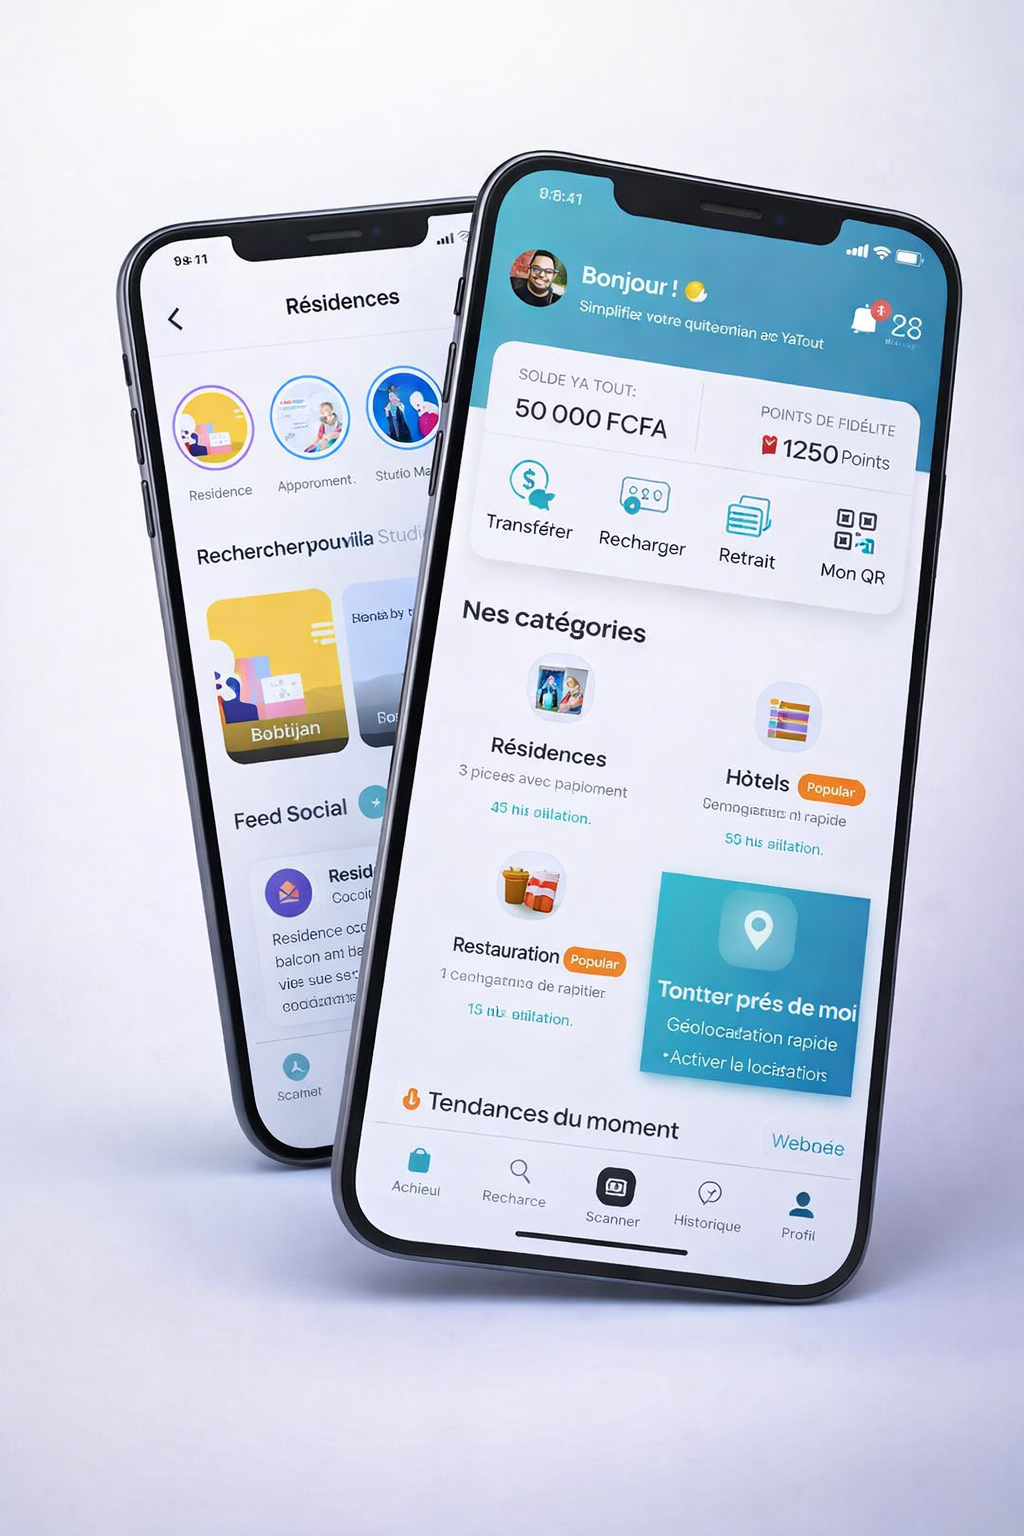
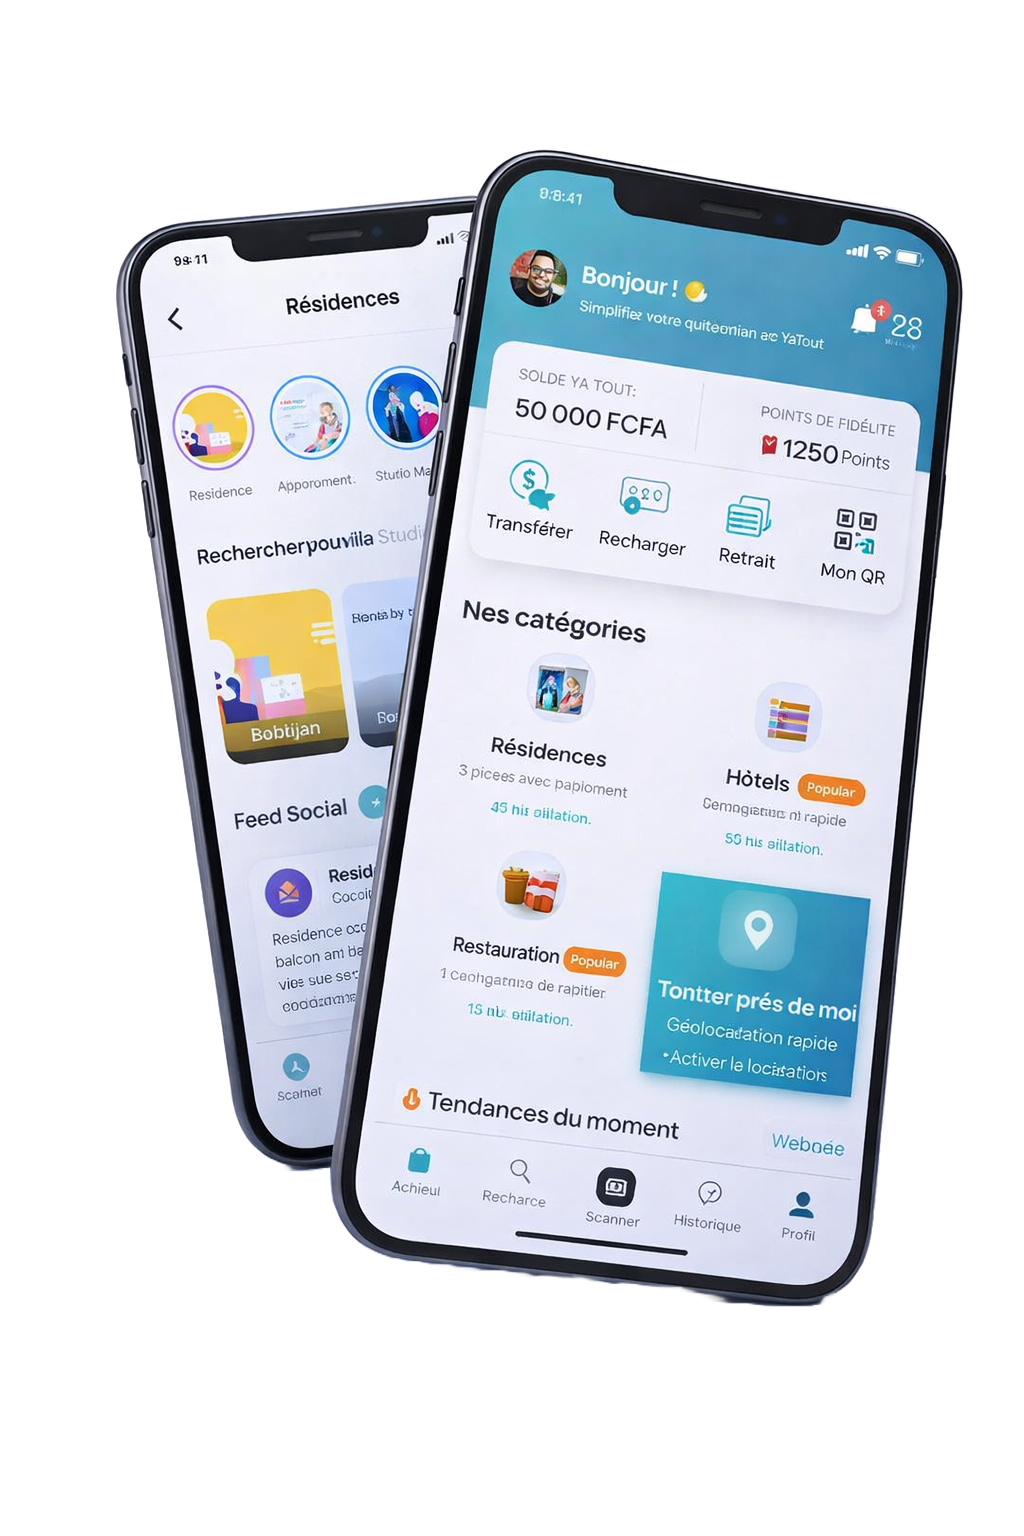
feat: Implement image-based phone mockup in Hero section, update button styles, and refine layout.

diff --git a/components/Hero.tsx b/components/Hero.tsx
@@ -29,7 +29,7 @@ const benefits = [
 
 export default function Hero() {
   return (
-    <section className="relative min-h-[90vh] flex items-center pt-20 overflow-hidden bg-gradient-to-br from-white to-gray-50">
+    <section className="relative min-h-[90vh] flex items-center pt-20 overflow-hidden  from-white to-gray-50">
       {/* Background Shapes */}
       <div className="absolute top-20 right-0 w-[800px] h-[800px] bg-primary/5 rounded-full blur-3xl -z-10" />
       <div className="absolute bottom-0 left-0 w-[600px] h-[600px] bg-blue-100/30 rounded-full blur-3xl -z-10" />
@@ -82,7 +82,7 @@ export default function Hero() {
             >
               <Button
                 size="lg"
-                className="bg-secondary text-white hover:bg-secondary/90 rounded-full h-14 px-8 text-lg shadow-lg shadow-secondary/20 transition-transform hover:scale-105"
+                className="bg-[#00CFE4] text-white hover:bg-secondary/90 rounded-full h-14 px-8 text-lg shadow-lg shadow-secondary/20 transition-transform hover:scale-105"
               >
                 Télécharger maintenant
               </Button>
@@ -136,60 +136,24 @@ export default function Hero() {
             initial={{ opacity: 0, x: 50 }}
             animate={{ opacity: 1, x: 0 }}
             transition={{ duration: 0.8, delay: 0.5 }}
-            className="relative hidden lg:block h-[700px] w-full"
+            className="relative hidden lg:block h-auto w-full flex justify-center"
           >
-            {/* Main Phone */}
-            <div className="absolute top-1/2 left-1/2 -translate-x-1/2 -translate-y-1/2 w-[340px] h-[680px] bg-gray-900 rounded-[3rem] p-3 shadow-2xl border-4 border-gray-800 z-10">
-              <div className="relative w-full h-full bg-white rounded-[2.5rem] overflow-hidden">
-                {/* Header */}
-                <div className="h-28 bg-primary p-6 pt-10 text-white flex flex-col justify-between">
-                   <div className="flex justify-between items-center">
-                     <div className="w-6 h-1 bg-white/50 rounded-full" />
-                     <div className="w-8 h-8 rounded-full bg-white/20" />
-                   </div>
-                   <div className="relative">
-                      <div className="absolute top-1/2 -translate-y-1/2 left-3 text-primary">
-                          <Search size={16} />
-                      </div>
-                      <div className="w-full h-10 bg-white rounded-full flex items-center px-10 text-sm text-gray-400">
-                      Rechercher...
-                      </div>
-                   </div>
-                </div>
-
-                {/* Categories Grid */}
-                <div className="p-6 grid grid-cols-2 gap-4">
-                  {['Hôtels', 'Villas', 'Restos', 'Ménage', 'Livraison', 'Loisirs'].map((item, i) => (
-                    <motion.div 
-                        initial={{ opacity: 0, scale: 0.8 }}
-                        animate={{ opacity: 1, scale: 1 }}
-                        transition={{ delay: 1 + (i * 0.1) }}
-                        key={item} 
-                        className="aspect-square bg-gray-50 rounded-2xl flex flex-col items-center justify-center gap-2 hover:bg-gray-100 transition-colors cursor-pointer group"
-                    >
-                        <div className="w-10 h-10 rounded-full bg-primary/10 flex items-center justify-center text-primary group-hover:bg-primary group-hover:text-white transition-colors">
-                           <div className="w-4 h-4 rounded-sm bg-current" />
-                        </div>
-                        <span className="text-sm font-medium text-gray-600">{item}</span>
-                    </motion.div>
-                  ))}
-                </div>
-
-                 {/* Bottom Nav */}
-                 <div className="absolute bottom-0 left-0 right-0 h-16 bg-white border-t flex items-center justify-around px-6">
-                    <div className="w-6 h-6 bg-primary rounded-full" />
-                    <div className="w-6 h-6 bg-gray-200 rounded-full" />
-                    <div className="w-6 h-6 bg-gray-200 rounded-full" />
-                    <div className="w-6 h-6 bg-gray-200 rounded-full" />
-                 </div>
-              </div>
+            <div className="relative z-10 w-[390px] md:w-[550px]">
+                <Image 
+                    src="/mockup-home.png"
+                    alt="Yatout App Interface"
+                    width={800}
+                    height={800}
+                    className="w-full h-auto drop-shadow-2xl"
+                    priority
+                />
             </div>
             
             {/* Floating Elements */}
             <motion.div 
               animate={{ y: [0, -10, 0] }}
               transition={{ duration: 4, repeat: Infinity, ease: "easeInOut" }}
-              className="absolute top-20 right-10 bg-white p-4 rounded-2xl shadow-xl flex items-center gap-3 max-w-[200px] z-20"
+              className="absolute top-20 right-0 bg-white p-4 rounded-2xl shadow-xl flex items-center gap-3 max-w-[200px] z-20"
             >
               <div className="w-10 h-10 rounded-full bg-green-100 flex items-center justify-center text-green-600">
                 <CheckCircle size={20} />
@@ -203,7 +167,7 @@ export default function Hero() {
              <motion.div 
               animate={{ y: [0, 10, 0] }}
               transition={{ duration: 5, repeat: Infinity, ease: "easeInOut", delay: 1 }}
-              className="absolute bottom-40 left-0 bg-white p-4 rounded-2xl shadow-xl flex items-center gap-3 z-20"
+              className="absolute bottom-20 left-10 bg-white p-4 rounded-2xl shadow-xl flex items-center gap-3 z-20"
             >
                <div className="w-10 h-10 rounded-full bg-orange-100 flex items-center justify-center text-orange-600">
                 <MapPin size={20} />
@@ -214,8 +178,8 @@ export default function Hero() {
               </div>
             </motion.div>
 
-             {/* Background decorative phone */}
-             <div className="absolute top-10 right-20 w-[300px] h-[600px] bg-gray-100 rounded-[3rem] -z-10 rotate-12 opacity-50" />
+             {/* Background decorative blob */}
+             <div className="absolute top-1/2 left-1/2 -translate-x-1/2 -translate-y-1/2 w-[500px] h-[500px] bg-primary/10 rounded-full blur-3xl -z-10" />
 
           </motion.div>
         </div>

diff --git a/components/Header.tsx b/components/Header.tsx
@@ -108,7 +108,7 @@ export default function Header() {
             >
               Devenir Prestataire
             </Button>
-            <Button className="hidden md:inline-flex text-black bg-[#00CFE4] hover:bg-[#00CFE4]/90 rounded-md px-6 shadow-lg shadow-secondary/20">
+            <Button className="hidden md:inline-flex  bg-[#00CFE4] hover:bg-[#00CFE4]/90 rounded-md px-6 shadow-lg shadow-secondary/20">
               Télécharger l'App
             </Button>
             
